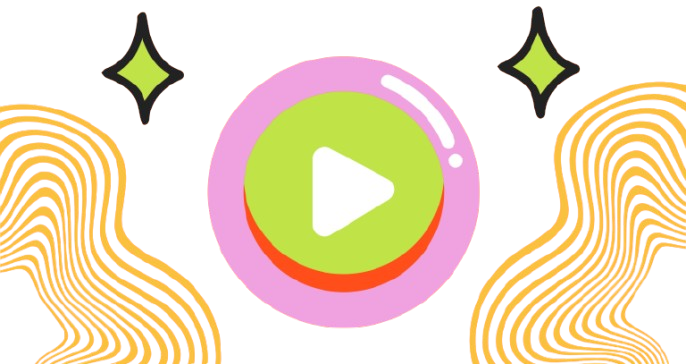
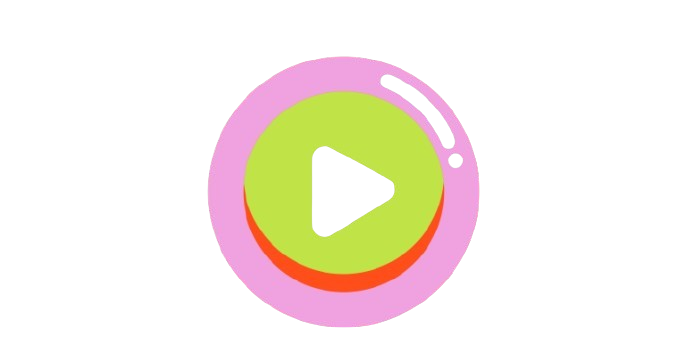
kkkkk

diff --git a/styles.css b/styles.css
@@ -114,9 +114,9 @@ h1, h2, h3, h4 {
 
 .hero-content {
   position: absolute;
-  top: 100px;
-  left: calc(55% - 20px);
-  transform: translateX(-50%);
+  top: calc(50% + 15px);
+  left: 50%;
+  transform: translate(-50%, -50%);
   z-index: 3;
   text-align: center;
 }

diff --git a/index.html b/index.html
@@ -25,7 +25,6 @@
 
 <header class="hero">
   <div class="hero-bg"></div>
-  <img src="assets/vt-2.png" alt="" class="hero-frame">
   <div class="hero-content">
     <img src="assets/vt-1.png" alt="Viagem Transcendental" class="hero-title">
     <p class="hero-tagline">Conhecimento Psicodélico</p>